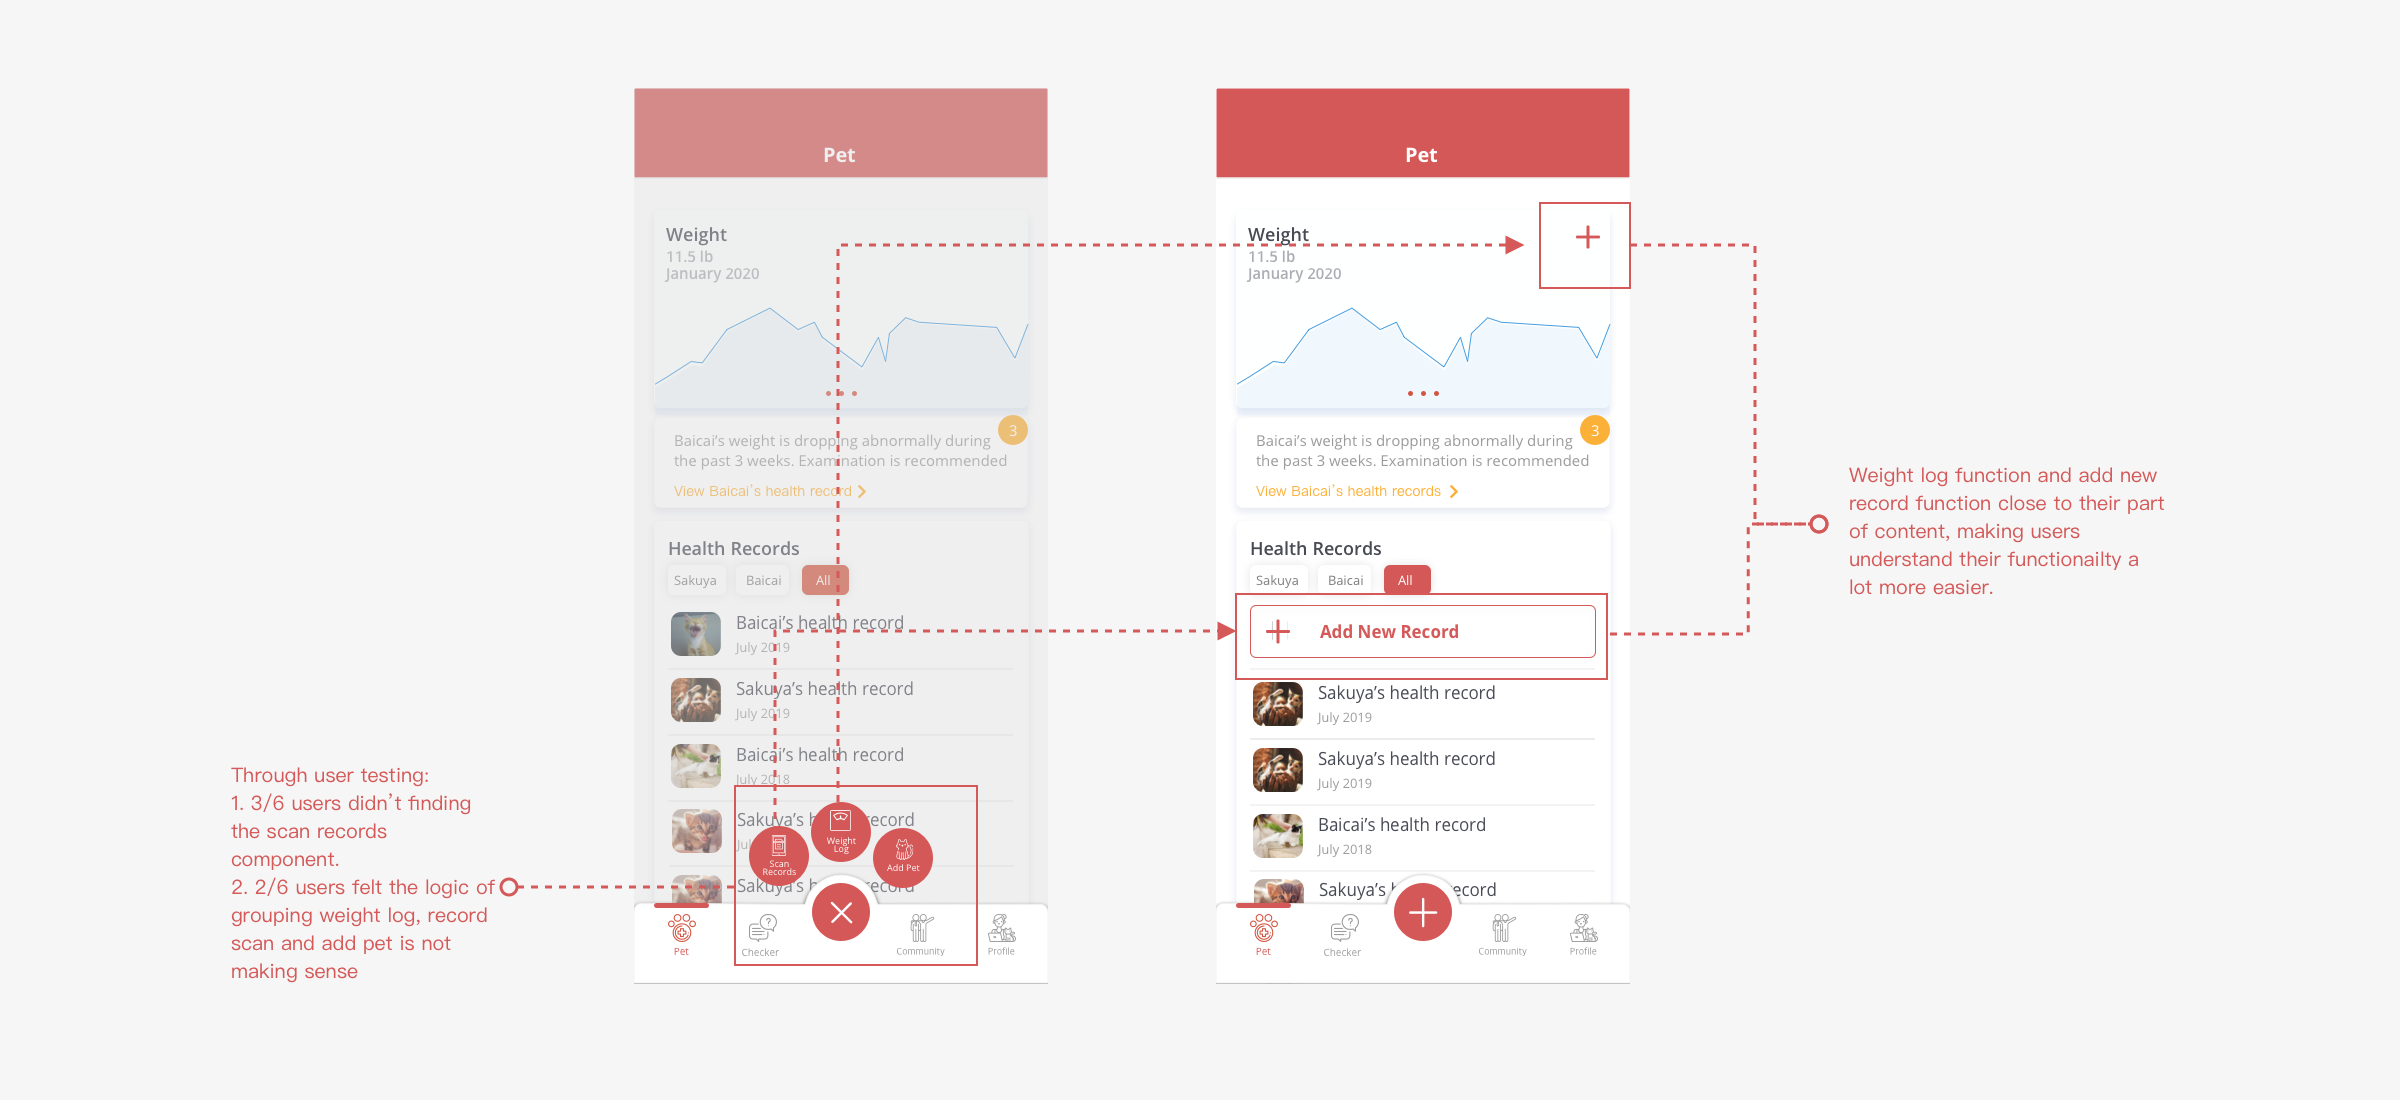
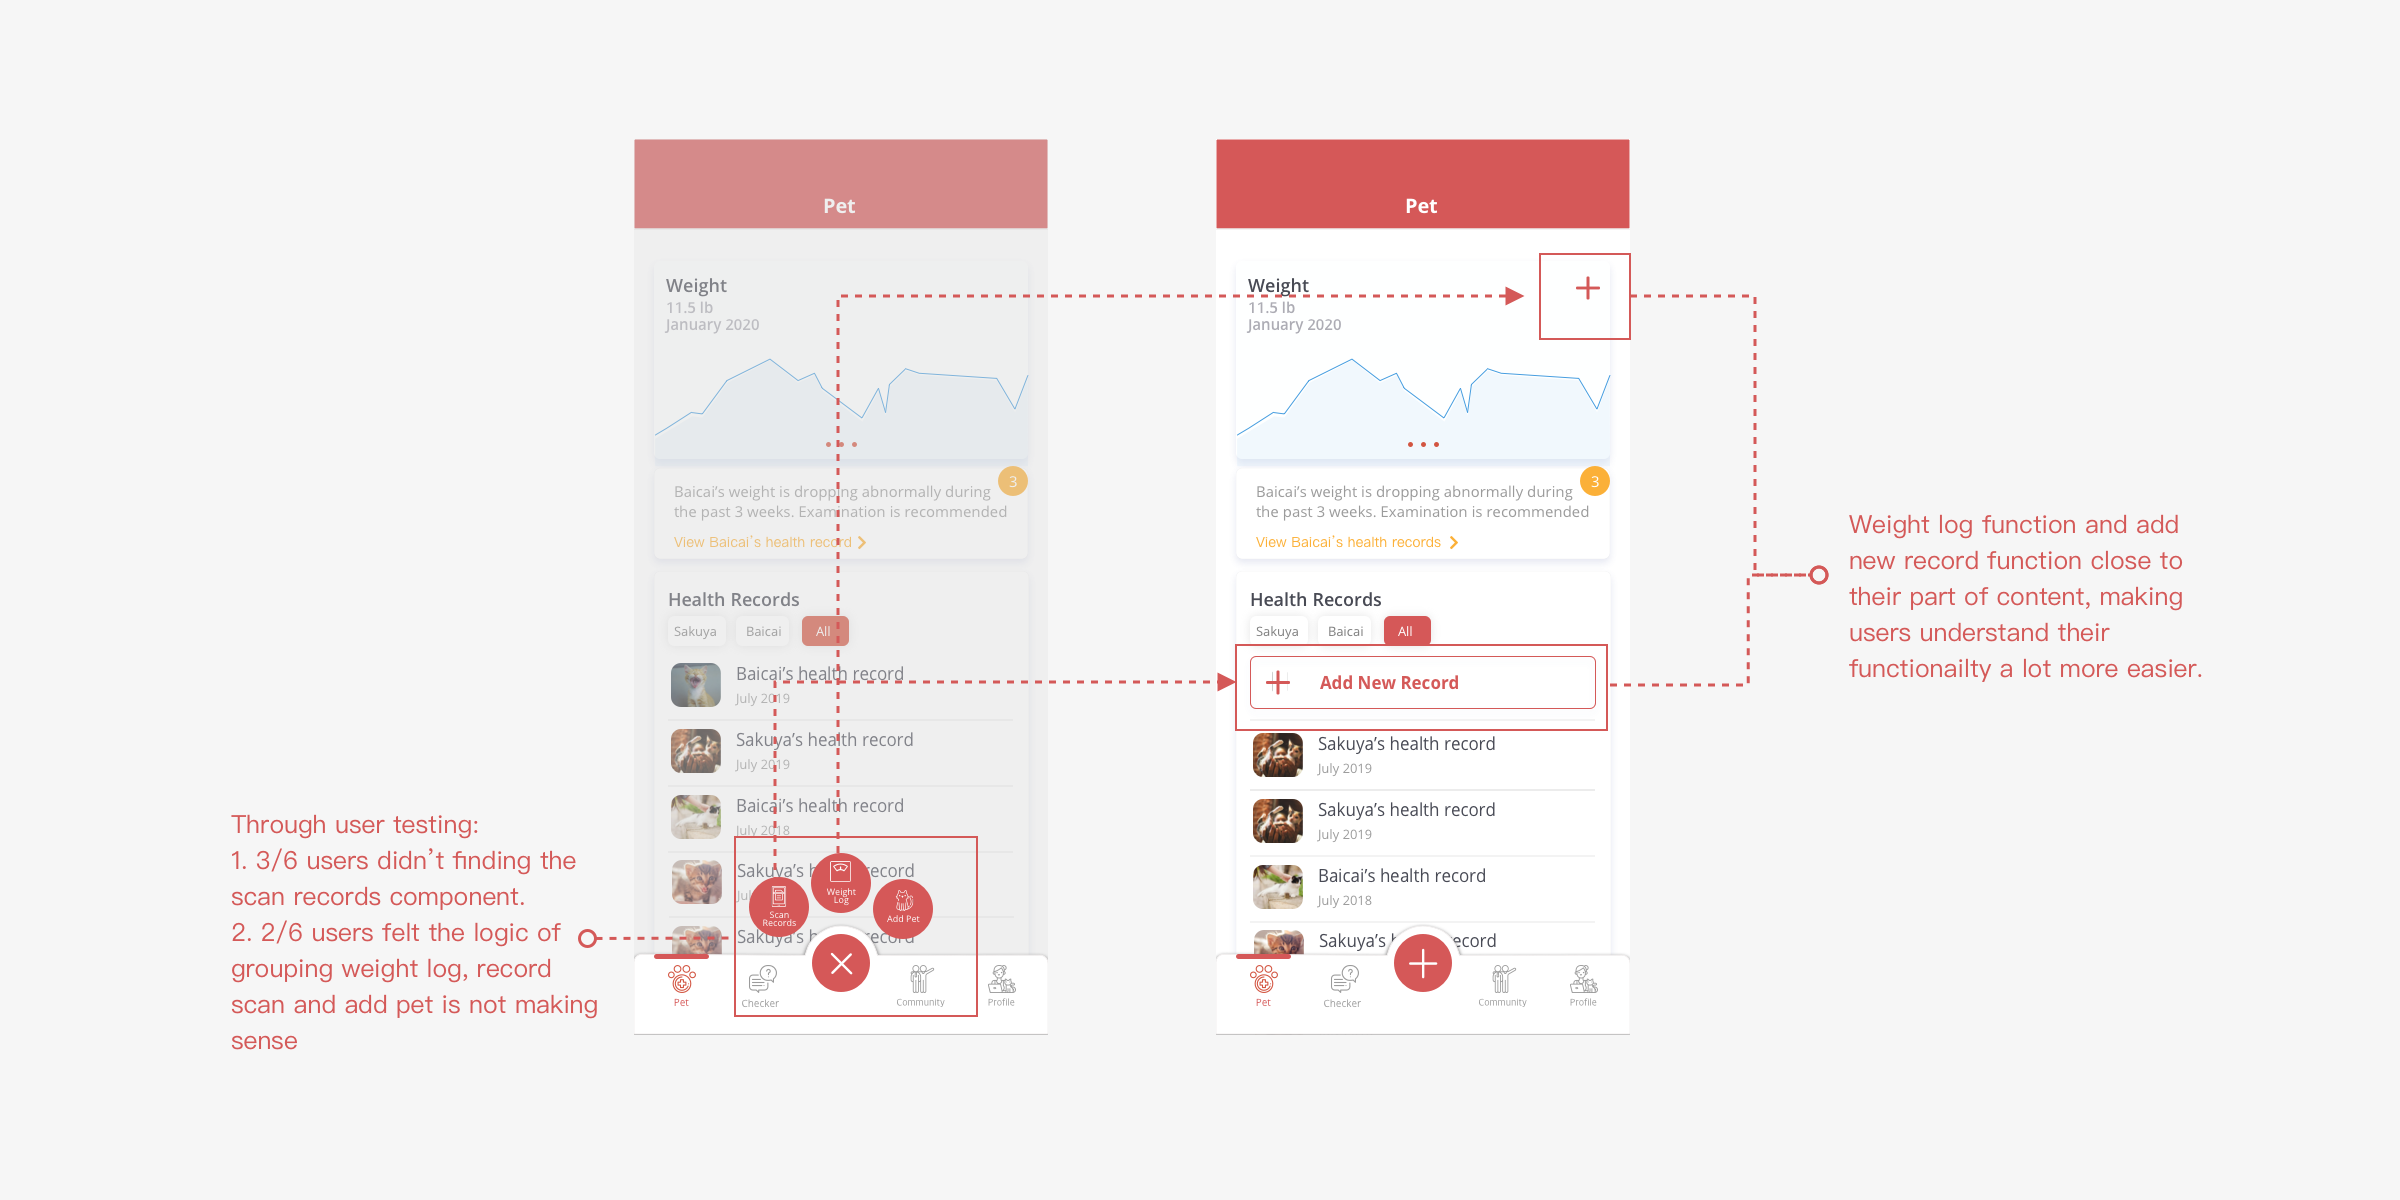
small fix

diff --git a/DR.Meow/index.html b/DR.Meow/index.html
@@ -294,12 +294,29 @@
                   <div class="high_fide">
                       <h4 class = "main">02. Design Decisions</h4>
 
+                      <a href="images/change2.png" class="single_image"><img src="images/change2.png" alt="change2"></a>
+                      <p class="word_box">
+                        <span class = "emma_color">From User testing 1 & 2:</span>
+                        <br>
+                        <br>
+                        My original ideas are to have a Quick access function featuring quick entries to help cat owners learn about cats through different categories and a checker function able to check diseases by filtering body parts of cats. However, during the 1ST user texting, 3/6 users expressed similar concern as:
+                        <strong>"they are more likely to find their cats' problems through their behaviors rather than through body parts'symptoms. At the same time, too many symptoms are listed results frustions while they are going through all possibilities". </strong>
+                        Therefore I decided to change the filtering features to a conversation bot trigger by key words so that the users can find the information they need easier through simple keywords input.
+                        If I decided to do so, the quick access feature will overlap with the checker feature. In this case, I decided to combine them as one component to locate in the navigation bar.
+                        <br>
+                        <br>
+                        <strong>Through other informal user testings, both of the users fail to understand the meaning of the "checker". My new idea is to change the word choice from "Checker" to "FAQs"</strong>
+                     </p>
 
-                      <a href="images/change1.png" class="single_image"><img src="images/change1.png" alt="change1"></a>
-                  </div>
+                     <a href="images/change1.png" class="single_image"><img src="images/change1.png" alt="change1"></a>
+                     <p class="word_box">
+                       <span class = "emma_color">From User testing 1 & 2:</span>
+                       <br>
+                       <br>
+                  4 of 6 users didn't find the page that monitoring pet health which is originally placed inside the "Profile" component. Dr. Meow focusing on pet health, therefore, the cat monitoring page should be the priority for users to noticed.
+                     </p>
 
-
-                </div>
+                    </div>
 
                   <div class="high_fide">
                       <h4 class = "main">03. High Fideity Prototype</h4>
@@ -343,7 +360,7 @@
                 <h5 class ="emma_color">1. Remember, brainstorming makes ideas, sketching soild ideas and iterating converts the ideas better.</h5>
                 <p class="word_box">Designs bring frustrations all the time not only for users but also for designers.
                   In real-world cases, we are always short on time and great ideas as well, but remember, design inspirations come from every minute of our life.
-                  Don't be overly stressful and trust yourself to attempt for more possibilities. At the same time, Discussing the project with your friends and brainstorm together or share your ideas with them if the project is allowable.
+                  Don't be overly stressful and trust yourself to attempt for more possibilities. At the same time, Discussing the project with your friends and brainstorm together or share your ideas and logics with them if the project is allowable.
                   <br><br>Using sketch to visualize ideas always able to help you capture more ideas, sometimes better ideas along the way and I didn't realize that before.
                   It's true that digital prototype able to do the job as well, however, the original thoughts were lost while people are too focusing on making the prototype prettier.
                 <br><br>The most crucial element within the iteration process is not only to get feedback from your perspective,
